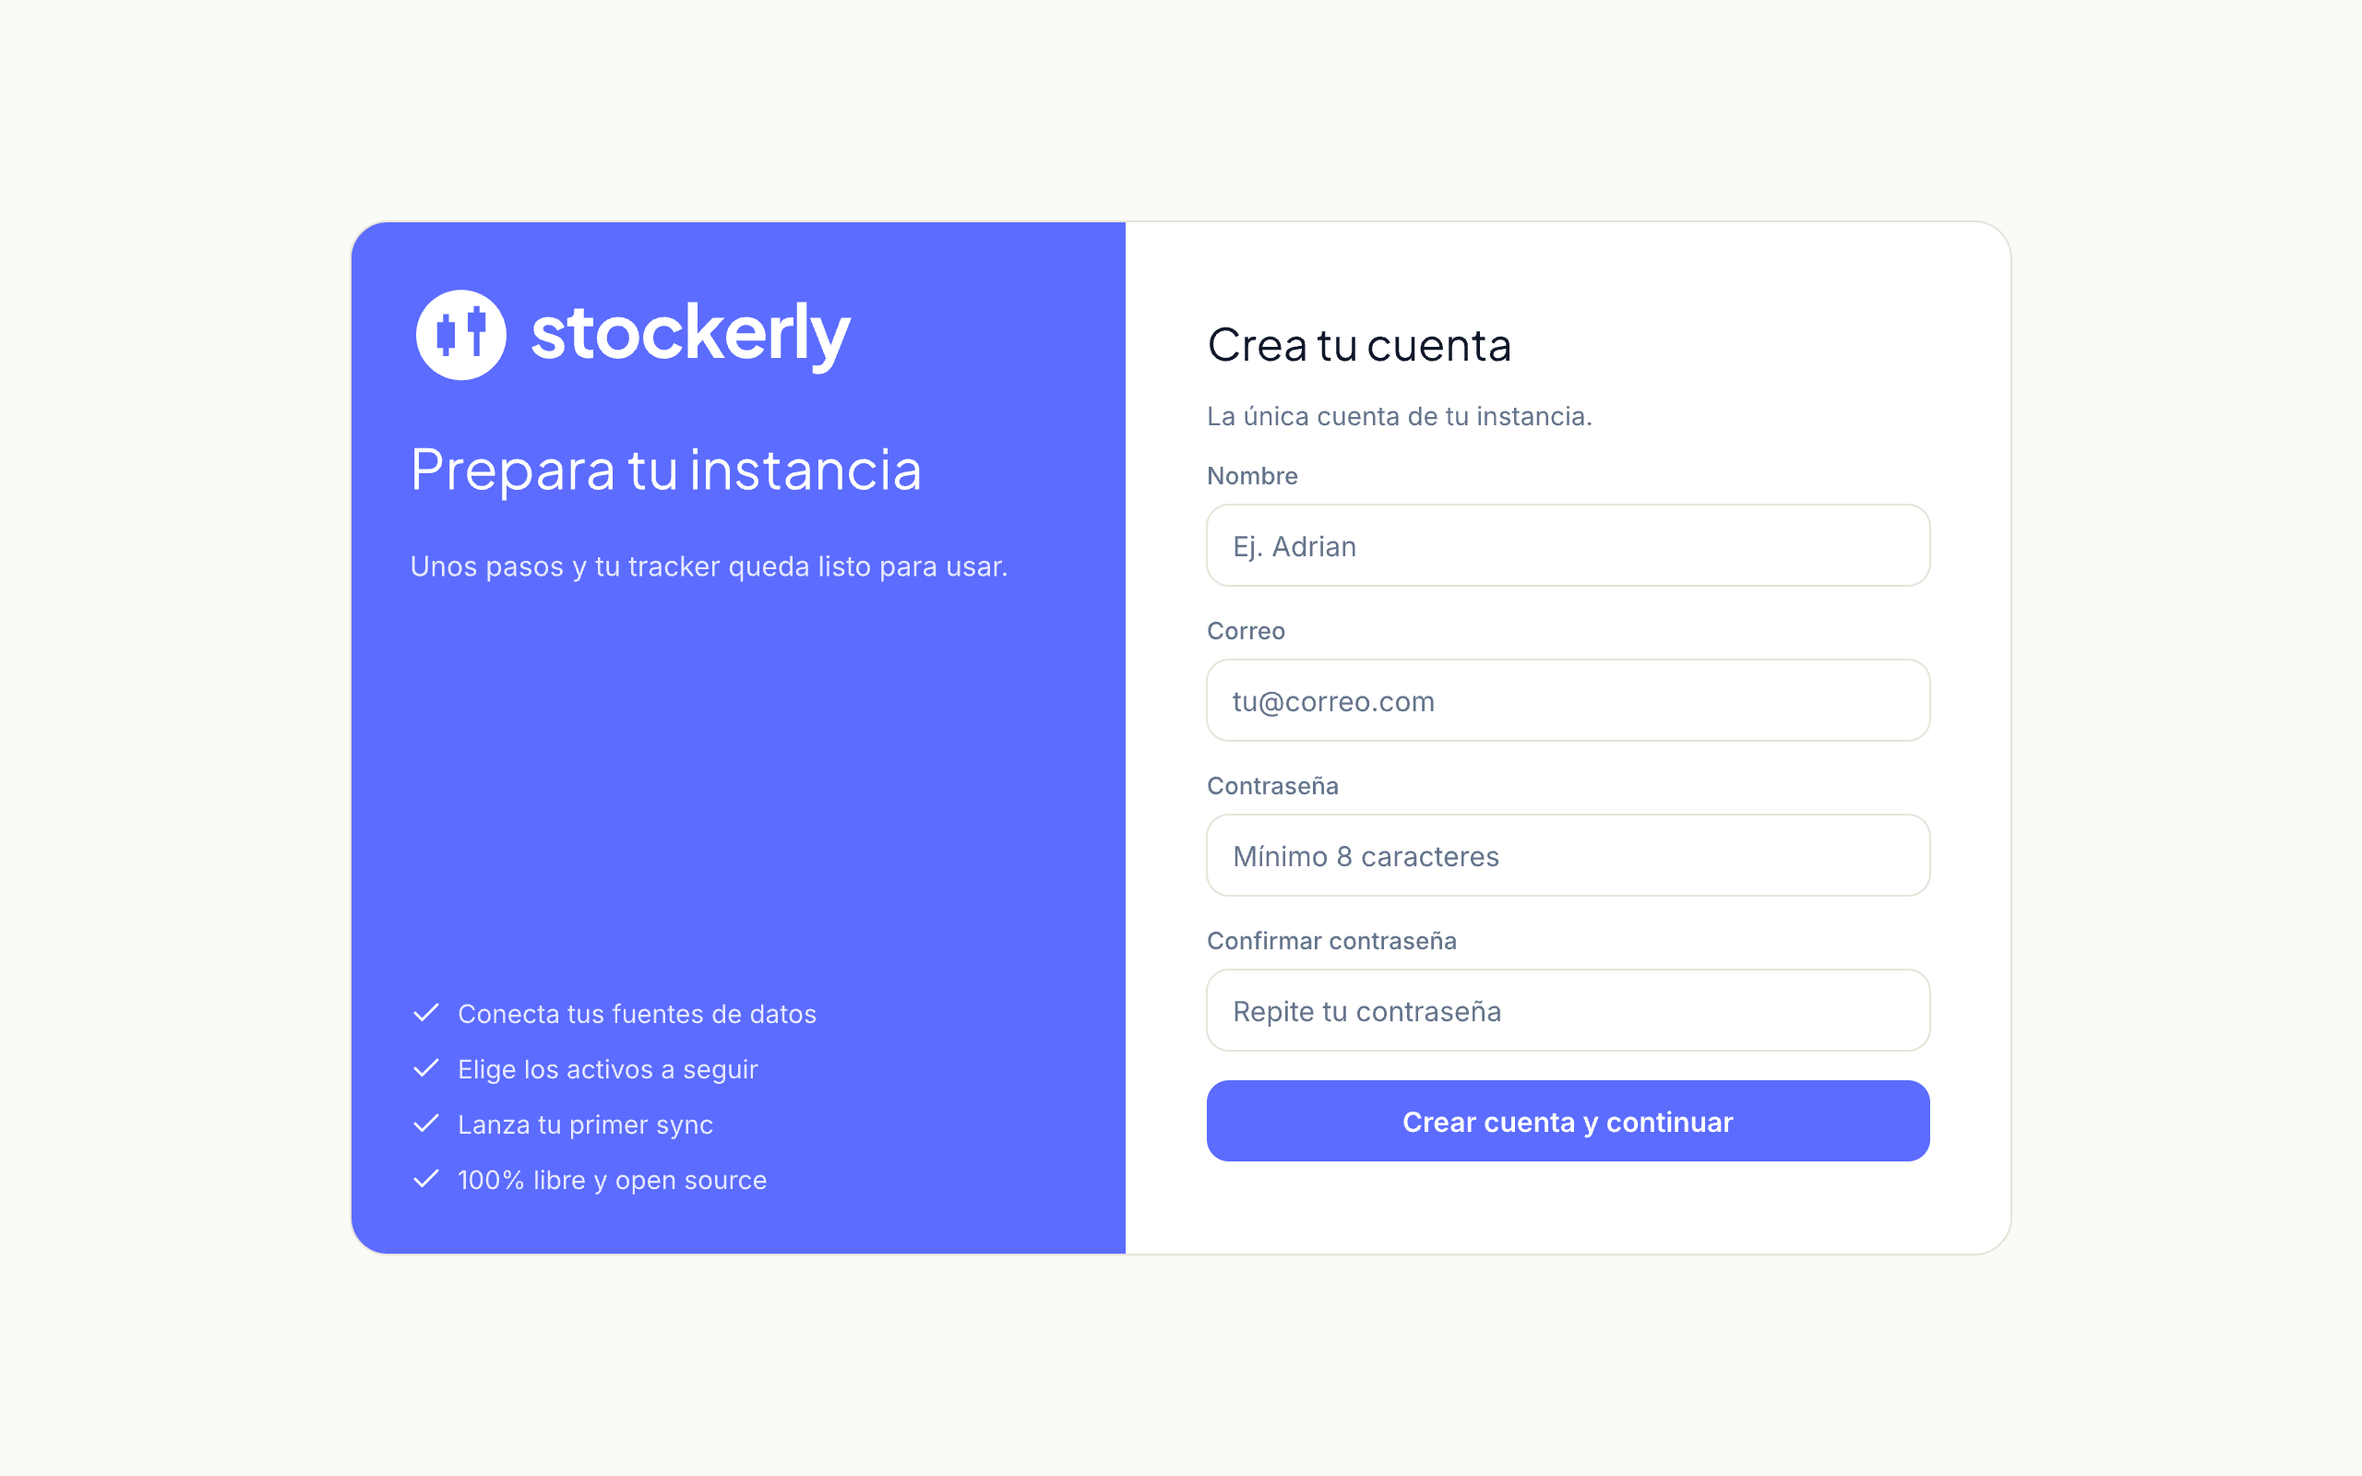
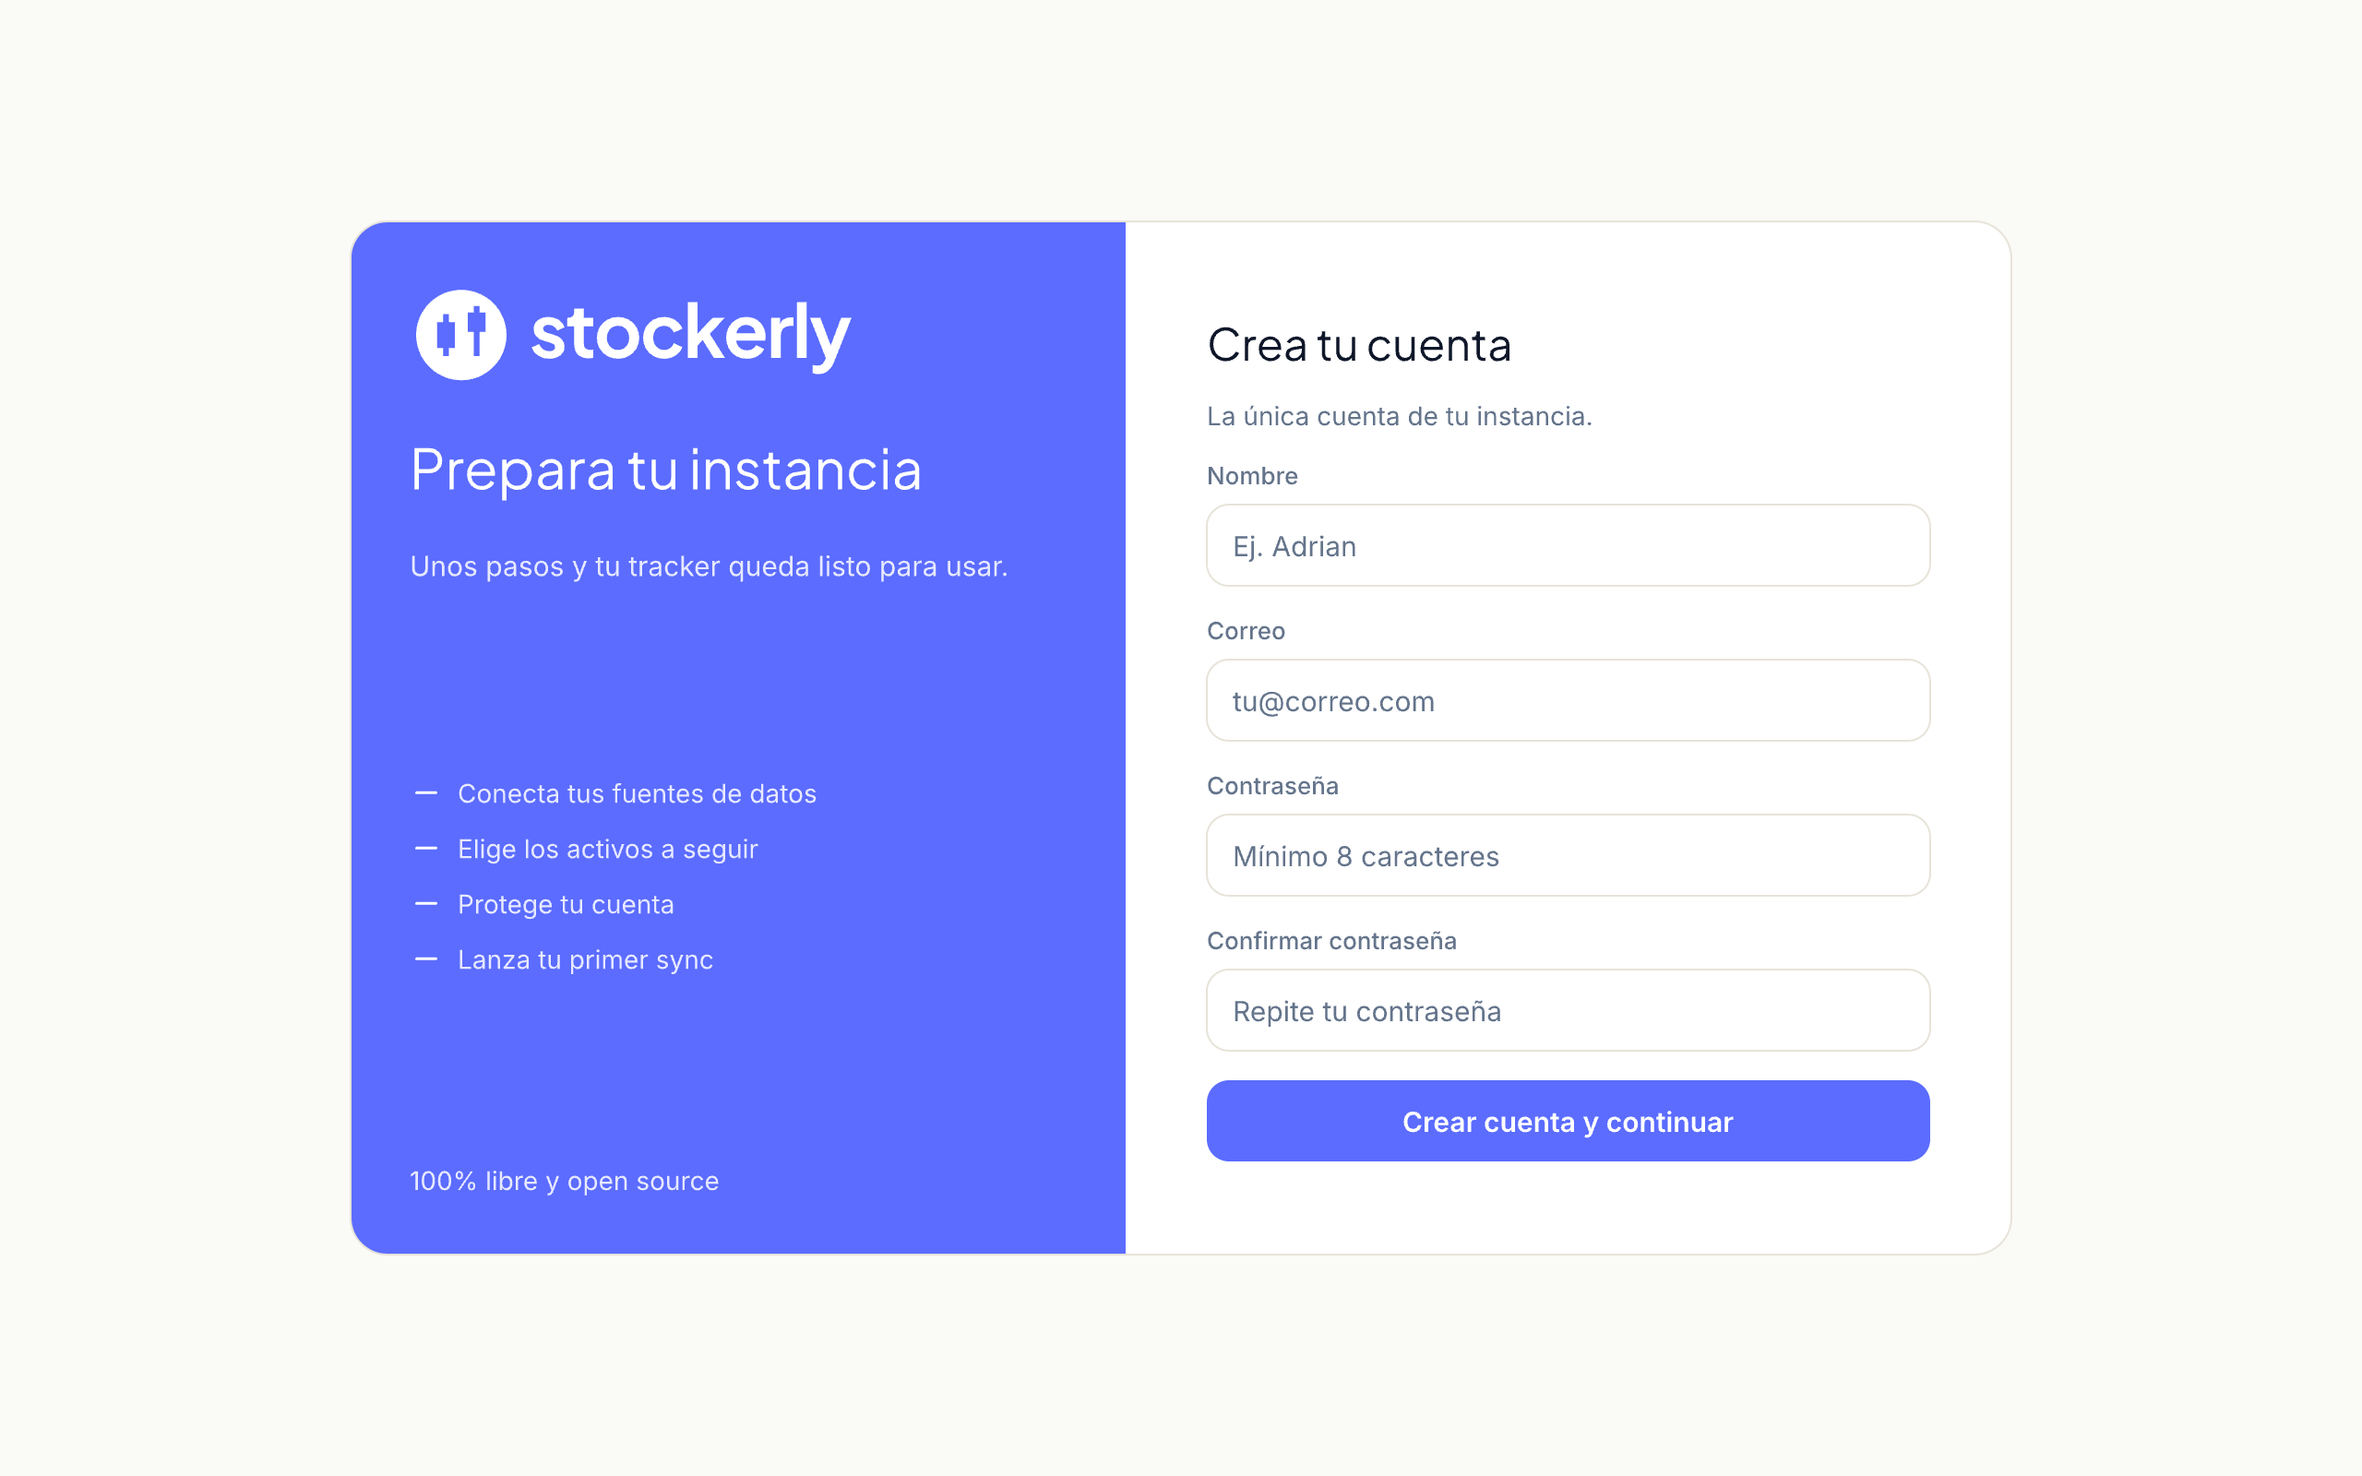
Apply D59 to the three Brand Panels, and re-shoot their exports
D59 was decided this morning and had not changed a pixel. The panel
mixed three wizard steps with one claim, rendered every item checked, and
named three steps against a wizard that has four - so inside the wizard a
reader saw "Paso 1 de 4 - 25%" beside three ticked items, two elements
describing progress in one view and one of them lying.

The Stepper is already correct, so the checklist gives up describing
progress rather than learning to: the Check icons are minus, "Protege tu
cuenta" sits third in wizard order (Integraciones, Activos, Seguridad,
Listo), and "100% libre y open source" is promoted out of the Checklist
into a panel-level Claim. Brand Panel is space_between, so that alone
pins the claim to the bottom - no spacer, no second variant.

Applied to Setup, Integrations and Assets desktop. Welcome correctly
draws no checklist and was left alone; mobile never draws the panel at
all, so this is desktop-only.

Verified against the committed file rather than against git status,
which reported nothing while the first write was still in flight -
exactly the lag design/README warns about. "Protege tu cuenta" 1 -> 4
(the Seguridad title plus three new rows), "100% libre y open source"
5 -> 5 (moved, not duplicated), and the icon names check 32 -> 20 with
minus 0 -> 12, which is three panels times four rows exactly.

Exports re-shot. Pencil names them by node id, so they are renamed to the
convention - an export nobody renames is a file nobody can identify, and
[…]

Changed region(s): [[0.1875, 0.5312, 0.3438, 0.6562], [0.1875, 0.7188, 0.3125, 0.8125]]

diff --git a/design/DECISIONS.md b/design/DECISIONS.md
@@ -97,7 +97,7 @@ values, so entries also record forward design calls — each with what we picked
 | **D58** | Tema and Moneda are the same segmented pill and commit differently | **Move Moneda to auto-save** · Give Tema a Guardar · Leave the split and label it | ✅ **Resolved 2026-08-28, and shipped the same day ([CODE_CHANGES §15](CODE_CHANGES.md)) — Moneda auto-saves and the `Guardar` is gone.** Adrian's call, and it turns on a failure mode rather than on symmetry: **the currency changes what every number on every screen means**, so a form you can fill and forget to submit leaves you reading MXN while believing you switched to USD. Nothing on screen contradicts that belief. The theme has no equivalent — it is visibly applied the instant you click it. The counter-argument below (a heavier change deserves a confirm) was weighed and rejected on the same ground: the control is two values, instantly reversible, and its effect is displayed everywhere, so a wrong state announces itself. **One correction to this entry's own recommendation, found by reading the controller:** it said *"the toggle pattern applies unchanged"*. It does not. [`toggle_controller.js`](../app/javascript/controllers/toggle_controller.js) is boolean by construction — it reads whether `bg-primary` is present, flips the classes and PATCHes `{field: true|false}`. Moneda is a two-value enum, so this needs a small sibling controller that sends a *value* (~30 lines), not a reuse. Cheap, but not free, and the entry said free. **What lands:** the segmented pill PATCHes `update_currency_path` on select, the `Guardar` button is deleted, and the screen drops from three commit models to two — instant-local (theme) and instant-server (currency, switches). The artboard already draws no `Guardar`, so design and code converge without an artboard edit. The original measurement, kept:
 
 **Open — measured 2026-08-27 in `settings.pen`.** The code does both, split by kind, and the split is invisible to the reader: theme writes to `localStorage` on click (`data-controller="theme"`), the notification switches POST on toggle (`data-controller="toggle"`), and currency is a form with an explicit `Guardar` ([`settings/_appearance.html.erb:36`](../app/views/settings/_appearance.html.erb#L36)). **The defect is not which behaviour is right — it is that two identical controls behave differently** and nothing on screen says so. Recommendation, unbuilt: move Moneda to auto-save, since `update_currency_path` already exists and writes only `preferred_currency`, so the toggle pattern applies unchanged. The counter-argument is real: currency changes what every number on every screen means, and a confirm is defensible for that alone — in which case the answer is to make the two controls *look* different, not to make them behave the same. The artboard draws today's behaviour until this is decided. |
-| **D59** | The onboarding Brand Panel checklist describes progress twice, and now undercounts it | Give the checklist state · **Keep it a promise, move the claim to its own line** · Redesign the panel | ✅ **Resolved 2026-08-28 — the checklist stays a promise, loses its checkmarks, gains the fourth item, and the claim moves to its own line.** Adrian's call. The reasoning that decided it: **the `Stepper` is already a correct progress indicator, so a second one is a second source of truth for the same fact** — the shape D53 exists to prevent, expressed in pixels instead of prose. Giving the checklist real state would keep both and require them to agree forever; removing the checkmarks makes it unambiguously a list of what is coming, which is what it reads as in Setup, where there is no `Stepper` yet. **Measured on canvas 2026-08-28, because where it appears decides how bad it is:** the panel carries the checklist on `Setup · Desktop`, `Integrations · Desktop` **and** `Assets · Desktop`, and correctly drops it on `Welcome · Desktop`, which is post-wizard. So inside the wizard a reader sees *"Paso 1 de 4 · 25%"* beside three ticked items. On mobile the panel is not drawn at all — only the open-source line — so this is a desktop-only defect. **What lands, in three artboard instances:** checkmarks become bullets, *Protege tu cuenta* is inserted third (the wizard order is Integraciones · Activos · Seguridad · Listo), and *100% libre y open source* separates onto its own line. One panel, no variants. The rejected alternative worth recording: dropping the checklist from the wizard artboards and keeping it only on Setup is also coherent — it just buys two panel variants to solve what removing three checkmarks solves. The original measurement, kept:
+| **D59** | The onboarding Brand Panel checklist describes progress twice, and now undercounts it | Give the checklist state · **Keep it a promise, move the claim to its own line** · Redesign the panel | ✅ **Resolved and applied 2026-08-28 — the checklist stays a promise, lost its checkmarks, gained the fourth item, and the claim moved to its own line.** The three panels were edited on canvas the same day and the exports re-shot; the `Check` icons are `minus`, `Protege tu cuenta` sits third in wizard order, and `100% libre y open source` is a `Claim` text at panel level, outside the `Checklist`. **Verified against the committed file rather than against `git status`:** `Protege tu cuenta` went 1 → 4 (the `Seguridad` title plus three new items), `100% libre y open source` stayed 5 → 5 — moved, not duplicated — and the icon names went `check` 32 → 20 with `minus` 0 → 12, which is 3 panels × 4 rows exactly. Adrian's call. The reasoning that decided it: **the `Stepper` is already a correct progress indicator, so a second one is a second source of truth for the same fact** — the shape D53 exists to prevent, expressed in pixels instead of prose. Giving the checklist real state would keep both and require them to agree forever; removing the checkmarks makes it unambiguously a list of what is coming, which is what it reads as in Setup, where there is no `Stepper` yet. **Measured on canvas 2026-08-28, because where it appears decides how bad it is:** the panel carries the checklist on `Setup · Desktop`, `Integrations · Desktop` **and** `Assets · Desktop`, and correctly drops it on `Welcome · Desktop`, which is post-wizard. So inside the wizard a reader sees *"Paso 1 de 4 · 25%"* beside three ticked items. On mobile the panel is not drawn at all — only the open-source line — so this is a desktop-only defect. **What lands, in three artboard instances:** checkmarks become bullets, *Protege tu cuenta* is inserted third (the wizard order is Integraciones · Activos · Seguridad · Listo), and *100% libre y open source* separates onto its own line. One panel, no variants. The rejected alternative worth recording: dropping the checklist from the wizard artboards and keeping it only on Setup is also coherent — it just buys two panel variants to solve what removing three checkmarks solves. The original measurement, kept:
 
 **Open — raised in the 2026-08-24 desktop pass (C5/C7), sharpened by D52.** The panel mixes three wizard STEPS (*conecta tus fuentes · elige los activos · lanza tu primer sync*) with one CLAIM (*100% libre y open source*), and renders **every item checked**. In Setup that reads as a promise of what is coming; reused inside the wizard it reads *"all done"* while you are on step 1, which is why the `Stepper` stays in the Form Panel rather than being replaced by it — **two elements describing progress in one view**. D52 added a fourth step (Seguridad), so the checklist now also **names three steps against a wizard that has four**, which turns a presentation question into a factual error. |
 | **D60** | Two screens render the same trade log, and only one is drawn | Draw `/trades` and keep both · **`Historial` absorbs it** · Absorb it but carry the filters over | ✅ **Resolved 2026-08-28 — `Historial` absorbs `/trades`, and the filters do not come with it.** Raised as ACT-3 in [V2_REMAINING.md](V2_REMAINING.md). **What decided it was measuring the entry points, not the code:** every `trades_path` in a view lives inside `app/views/trades/` itself, so **the screen has no inbound link from anywhere in the app** — it is reachable only by typing the URL. The `Historial` artboard (D43) already draws the same trade log as one of its three sections, and D43 chose those three by measuring which lists had no other home. **The capability question, checked before deciding, and it came back clean:** editing and deleting a trade live in `trades/_trade_row`, which renders from `trades/index` **and** from `positions/_positions_table` — so both affordances already exist on the screen that survives, through the same partial. `market/_position_trades` is read-only and loses nothing. Absorbing costs no capability. **What it costs instead is rebuilding the inline edit/delete inside a `MovementItem` card rather than a `<tr>`** — which is the kit gap that partial already represents, so it is work the ladder owed anyway rather than work this decision creates. **The filters (`tipo` / `mercado` / `anio`) are dropped**, not ported: they are real and they were built for a screen nobody ever opened, which is the strongest available evidence that nothing needed them. They return with a documented trigger, like anything else. **What lands:** the three drawn sections at `/positions`, `trades#index` and its 187-line view deleted along with the controller's filter methods, and the HTML fallbacks that redirect to `trades_path` repointed. `trades#new/create/edit/update/destroy` all stay — the sheet and the inline row flows are not this route. |

diff --git a/design/V2_REMAINING.md b/design/V2_REMAINING.md
@@ -486,7 +486,7 @@ locale has five entries — `us_stocks`, `crypto`, `etfs`, `mexican_stocks`, `fi
 category split as *"not a design call — the code had already made it"*, so the artboard simply
 did not finish catching up.
 
-### ONB-6 🟡 D59 — decided 2026-08-28: it stays a promise, and loses its checkmarks
+### ONB-6 ✅ D59 — applied 2026-08-28: it stays a promise, and lost its checkmarks
 
 **Decided: bullets instead of checkmarks, a fourth item, and the claim on its own line.** The
 `Stepper` is already a correct progress indicator, so giving the checklist real state would create a
@@ -498,9 +498,20 @@ carries the checklist on `Setup · Desktop`, `Integrations · Desktop` **and** `
 correctly drops it on `Welcome · Desktop`. So inside the wizard a reader sees *"Paso 1 de 4 · 25%"*
 beside three ticked items. On mobile the panel is not drawn at all, so this is desktop-only.
 
-**Three artboard instances to edit:** checkmarks → bullets, insert *Protege tu cuenta* third (the
-order is Integraciones · Activos · Seguridad · Listo), and split *100% libre y open source* onto its
-own line.
+**Applied to all three panels**, and the exports re-shot. The `Brand Panel` is `space_between`, so
+promoting the claim from a `Checklist` item to a panel-level `Claim` text pins it to the bottom on
+its own — no spacer, no variant.
+
+**Verified against the committed file, not against `git status`** — which showed nothing while the
+first write was still in flight, exactly as the method warns. `Protege tu cuenta` 1 → 4 (the
+`Seguridad` title plus three new rows), `100% libre y open source` **5 → 5** (moved, not
+duplicated), icon names `check` 32 → 20 and `minus` 0 → 12, which is 3 panels × 4 rows.
+
+⚠ **The `Brand Panel` is hand-built three times** and this edit had to be applied three times
+because of it. That is the `HeaderBar` shape — built four times in `settings.pen`, twice in
+`alerts.pen`, promoted to the kit at 0.9.0 on two consumers. **Three consumers is past that bar.**
+Not promoted here, because the method says not to promote unasked; logged so the next edit to this
+panel is the last one that costs three.
 
 ---
 
